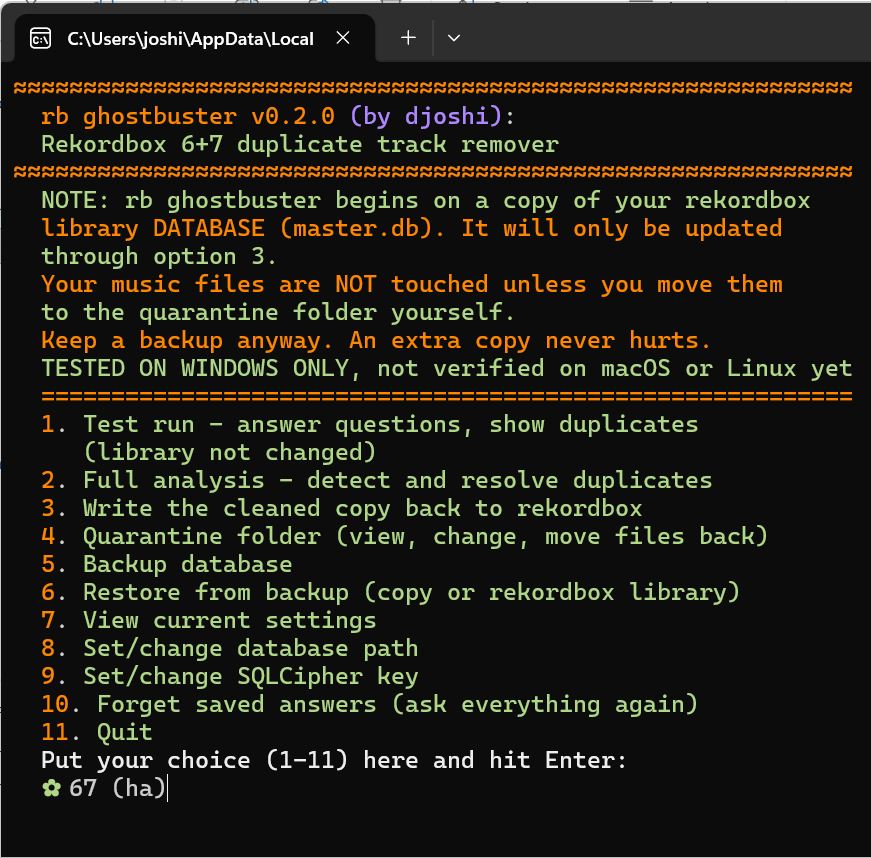
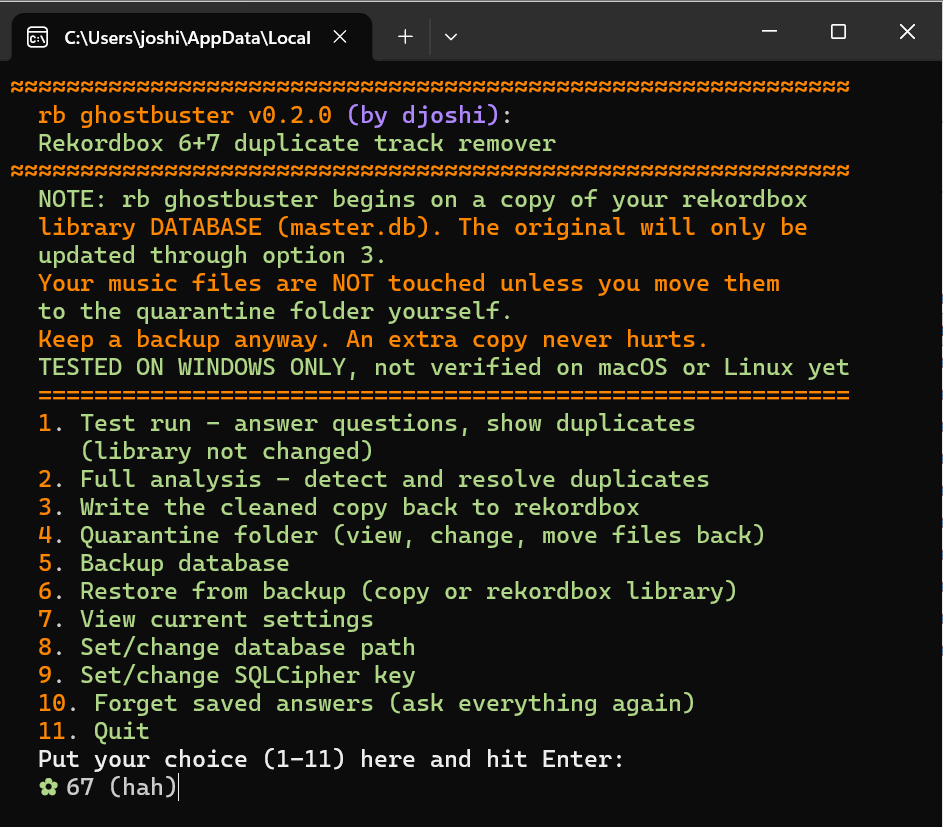
Refresh the menu screenshot with the new note wording
The old capture still showed the previous note text, and the wider window
left the image a bit small at its half-width setting.

diff --git a/README.md b/README.md
@@ -2,7 +2,7 @@
 
 by **djoshi**
 
-<img src="screenshots/menu.png" width="435" alt="rb ghostbuster main menu">
+<img src="screenshots/menu.png" width="471" alt="rb ghostbuster main menu">
 
 Finds duplicate tracks in your rekordbox 6/7 library and clears them out. Works on a copy, backs up first, and lets you undo changes.
 
